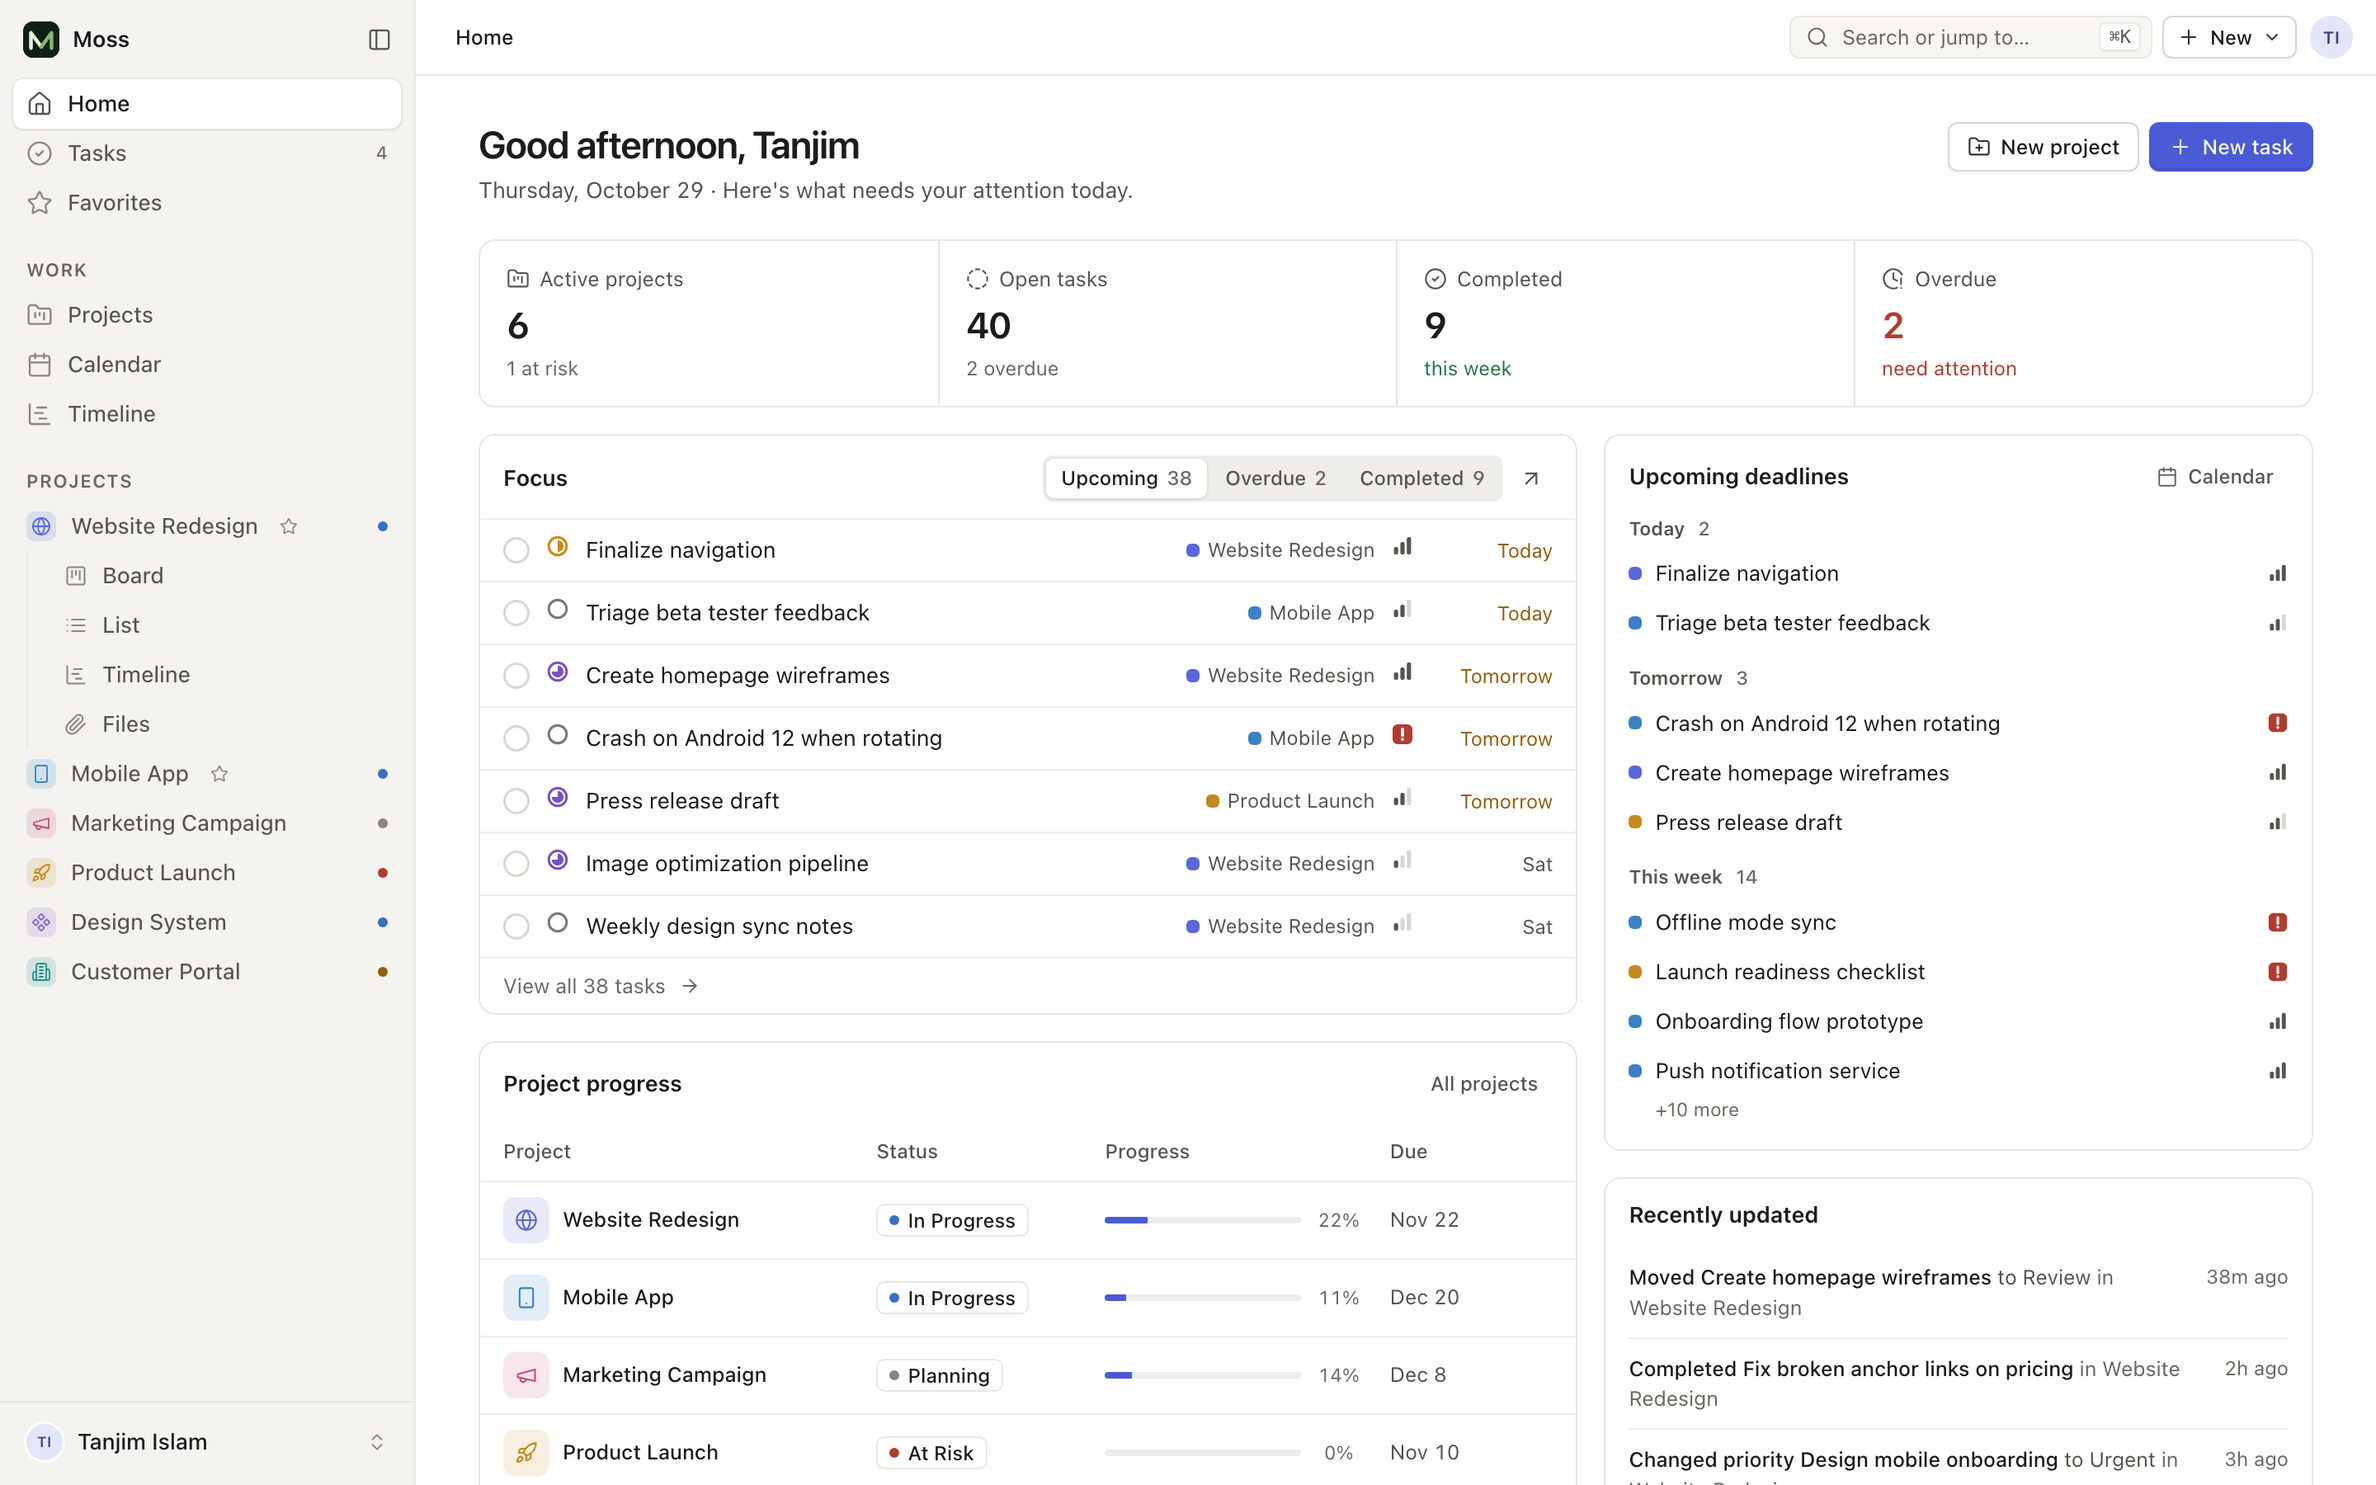
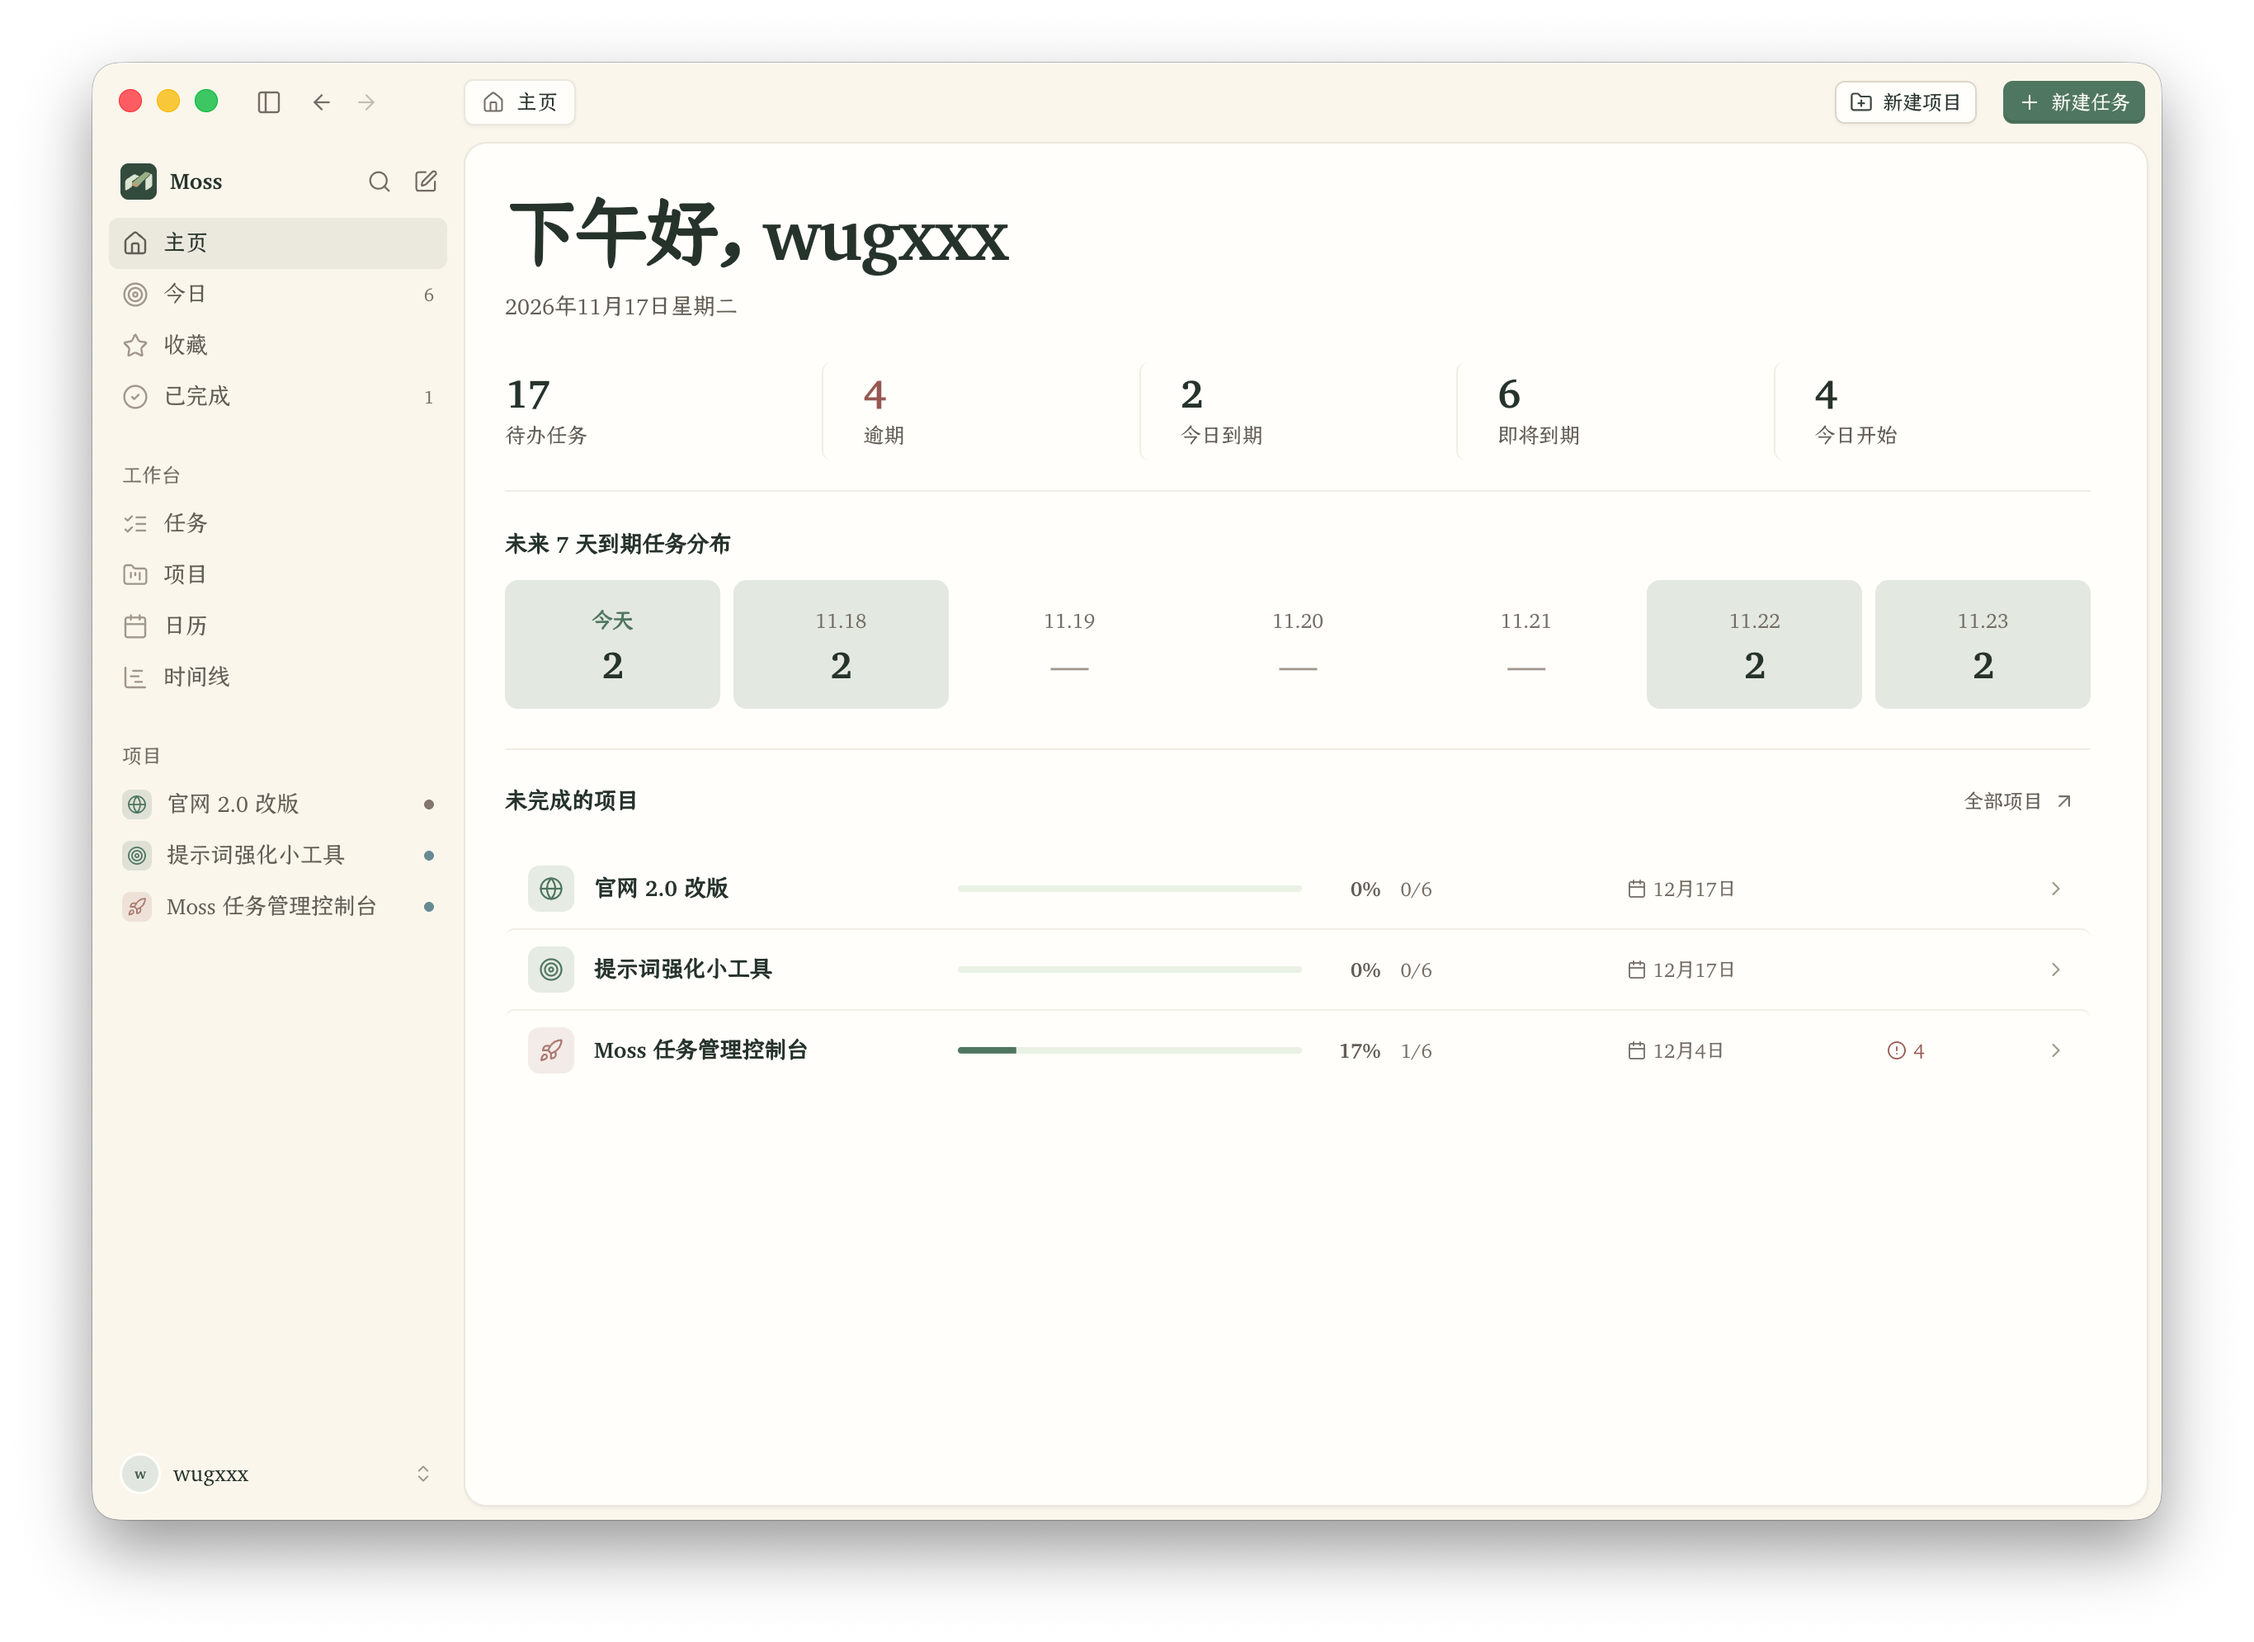
docs: refresh README features and screenshots

diff --git a/README.md b/README.md
@@ -2,25 +2,53 @@
 
 **English** · [简体中文](README.zh-CN.md)
 
-A calm, local-first project management workspace for solo work: a home overview, Today focus,
-tasks, completed history, projects with editable schedules and milestones, configurable workspace
-labels, overview / board / list / table / calendar / timeline / files views, calendar events,
-favorites, archive, global search and settings. The first release is available in English and
-Simplified Chinese (`zh-CN`), and treats task and event dates as local calendar dates without
-time-zone conversion.
-
-Built with plain JavaScript ES modules and CSS, bundled by [Vite](https://vite.dev). There is no
-UI framework; the only runtime dependency is the bundled Charter webfont. The web build stores
-data in browser `localStorage`; JSON export and import are available under Settings -> Data &
-backup. In the desktop build, attachment bytes are stored under the app's managed user-data
-directory while metadata and the sync outbox live in SQLite. Startup removes orphaned attachment
-blobs. The browser build remains metadata-only for attachment contents. A SQLite-backed local
-repository is ready for the desktop shell. On macOS the desktop build adds a menu bar icon;
-closing the window keeps Moss running. Left-clicking the icon opens a list of overdue and
-today's tasks, where tasks can be completed or opened directly. Right-clicking opens a menu that
-can reopen or quit Moss.
+A calm, local-first project workspace for solo work. It keeps daily commitments, project plans,
+and task detail in one place: a workload home, a focused Today view, flexible task views, editable
+project schedules and milestones, a calendar, and a timeline. The interface is available in
+English and Simplified Chinese (`zh-CN`), and treats task and event dates as local calendar dates
+without time-zone conversion.
 
 ![Moss home overview](docs/preview.png)
+
+_Home: workload snapshot, seven-day due distribution, and unfinished project progress._
+
+![Moss Today focus](docs/preview-today.png)
+
+_Today: overdue triage, completion progress, and tasks due today._
+
+## Features
+
+- **Home overview** — greeting, open, overdue, due-today and upcoming counts, a seven-day due
+  distribution, and progress for every unfinished project.
+- **Today focus** — a completion ring, overdue triage with one-click reschedule to today,
+  expandable overdue lists, and tasks due today in a card grid.
+- **Tasks** — workspace and project tasks in list, board, and table layouts, with filtering,
+  sorting, grouping, bulk actions, and search.
+- **Task detail** — inline editing, rich-text descriptions, status, priority, labels, start and
+  due dates, recurrence, estimates, dependencies, subtasks, attachments, and favorites.
+- **Projects** — overview, board, list, table, calendar, timeline, and files, plus project status,
+  editable schedules, milestones, and saved views.
+- **Favorites and history** — favorite tasks and projects, review completed work, and archive or
+  restore items.
+- **Calendar and timeline** — month and week calendars with project events and drag-to-reschedule;
+  a timeline with week or month zoom, status or project grouping, dependencies, and milestones.
+- **Search and keyboard use** — global search across tasks, projects, and files (including
+  archived items), a command palette, and shortcuts for navigation and quick creation.
+- **Local-first data** — SQLite in the desktop app, `localStorage` in the browser, JSON backup
+  and restore, archive and restore, and optional sync status controls.
+- **macOS menu bar** — a popover for overdue and due-today tasks with completion, undo, and direct
+  opening; its menu adds quick search, navigation, settings, and launch at login.
+- **Settings** — light, dark, or system themes, accent colours, density, language, date and time
+  formats, week start, workspace labels, startup view, default project view, and local profile.
+
+Moss is built with plain JavaScript ES modules and CSS, bundled by [Vite](https://vite.dev). There
+is no UI framework; the only runtime dependency is the bundled Charter webfont. The web build
+stores data in browser `localStorage`; JSON export and import are available under Settings -> Data
+& backup. In the desktop build, attachment bytes are stored under the app's managed user-data
+directory while metadata and the sync outbox live in SQLite. Startup removes orphaned attachment
+blobs. The browser build remains metadata-only for attachment contents. Closing the desktop window
+keeps Moss running on macOS; right-clicking the menu bar icon opens quick actions, navigation,
+settings, launch-at-login, and quit.
 
 ## Getting started
 
@@ -41,67 +69,6 @@ npm test          # unit, contract, sync and SQLite integration tests
 npm run lint      # ESLint
 npm run format    # Prettier
 ```
-
-## Project structure
-
-```
-index.html              HTML entry; loads src/main.js
-src/core/brand.js       single source for the Moss wordmark and app mark
-scripts/generate-brand-assets.mjs  regenerates the favicon and desktop icon
-scripts/generate-tray-icon.mjs     generates the macOS menu bar template from the brand glyph
-public/favicon.svg                 generated brand mark for the web favicon
-public/trayTemplate*.png           generated macOS menu bar template images
-build/icon.svg                     generated brand mark for desktop packaging
-vite.config.js          Vite config, including the Lucide icon-subset plugin
-eslint.config.js        lint rules (ESLint flat config); formatting by Prettier (.prettierrc.json)
-.github/workflows/      CI: lint, format check, build
-docs/preview.png        README screenshot
-packages/
-  contracts/            serializable entities, commands, queries, and results
-  domain/                pure task and project rules
-  application/           command handlers over a repository interface
-  client/                WorkspaceClient interface, with memory, browser, local, desktop, and sync HTTP adapters
-  local-db/              Node SQLite schema, migrations, repository, outbox, importer, and sync runner
-  sync-core/              transport-neutral sync protocol, validation, retries, and pull merging
-  test-fixtures/         shared snapshots and entity builders
-tests/                   package and renderer unit tests
-src/
-  main.js               entry: imports styles and modules, then boots the app
-  styles/
-    index.css           imports every stylesheet in cascade order
-    tokens.css          colours, spacing, type, radius, the shared --gutter
-    fonts.css           bundled Charter webfont
-    base.css  components.css  shell.css  panels.css  overlays.css  states.css  motion.css  responsive.css
-    views/              list, board, table, calendar, timeline, projects & files
-    pages/              focus and settings
-  core/                 utilities, constants, icons, read store, workspace bridge, focus stats, theme
-  data/seed.js          initial empty workspace data
-  i18n/                 locale registry, lookup/interpolation, pluralization, en and zh-CN catalogues
-  ui/                   shared render helpers, toasts, the select dropdown
-  shell/                render loop and router, sidebar/topbar layout, skeletons, view engine
-  components/           task list renderer
-  pages/                one module per route
-  views/                project views: board, table, calendar, timeline, files, overview
-  overlays/             task drawer, modals, popovers, context menu, command palette
-  features/             subtasks and archive rendering
-  actions/              user actions, event wiring, keyboard shortcuts, drag and drop
-apps/desktop/           Electron main process, typed preload bridge, packaging
-```
-
-### Layers
-
-Dependencies point inward:
-
-1. `contracts` defines serializable entities and command/query types.
-2. `domain` holds framework-free business rules.
-3. `application` validates and applies commands against a repository interface.
-4. `client` exposes `WorkspaceClient`; browser and memory adapters select the implementation.
-5. UI actions call the shared workspace client. They do not mutate projects, tasks, files, or
-   saved views directly.
-
-`S.data` is a synchronous read cache for the renderer. It is refreshed from the client after
-every command. Ephemeral UI state and device preferences stay outside the workspace command
-path and may be saved directly.
 
 ## Conventions
 
@@ -135,11 +102,11 @@ The local-first desktop and optional cloud sync design is documented in
 [docs/architecture.md](docs/architecture.md). Remaining cloud, sync, and
 hardening work is tracked in [docs/remaining-work.md](docs/remaining-work.md).
 
-Milestone 1 establishes the command and client boundaries. Milestone 2 adds the SQLite-backed
-local repository, migrations, legacy import, outbox, and tombstones. Milestone 4 now includes
-the offline sync engine: HTTP push/pull, retry scheduling, ordered remote changes, durable pull
+The shared packages establish command and client boundaries, pure task and project rules, and a
+SQLite-backed local repository with migrations, legacy import, an outbox, and tombstones. The
+offline sync engine provides HTTP push/pull, retry scheduling, ordered remote changes, durable pull
 cursors, and sync status controls. A hosted API and PostgreSQL schema are still required for
-cross-device sync. The web build still uses browser `localStorage`; the Electron build connects
-to SQLite through the typed preload adapter. Desktop workspace data lives in
-`app.getPath("userData")/workspace.sqlite3`, while browser preferences and view state remain
-local UI state.
+cross-device sync. The web build uses browser `localStorage`; the Electron build connects to
+SQLite through the typed preload adapter. Desktop workspace data lives in
+`app.getPath("userData")/workspace.sqlite3`, while browser preferences and view state remain local
+UI state.
